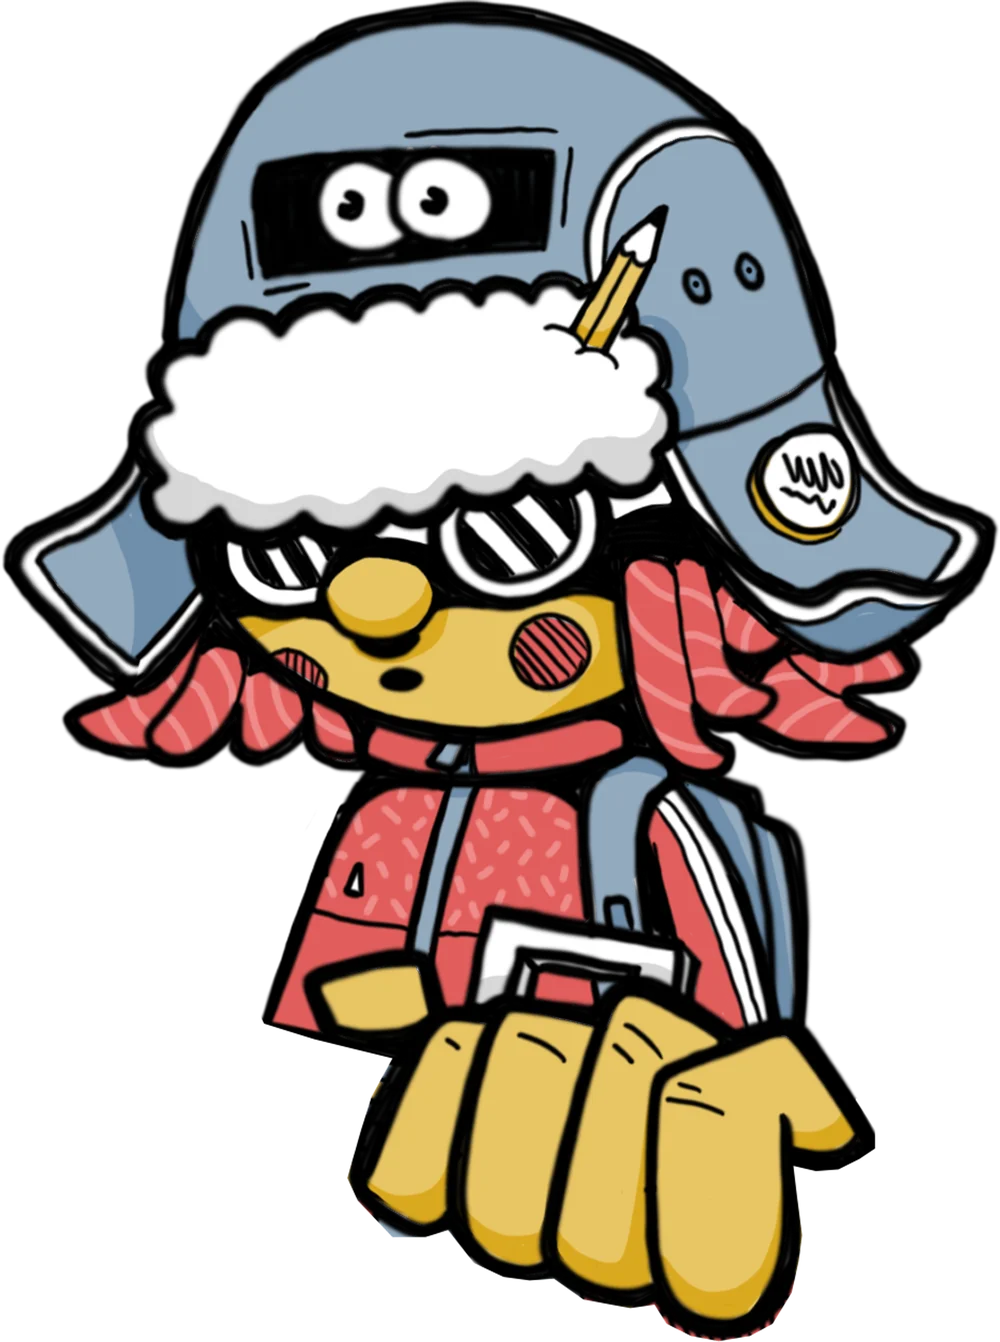
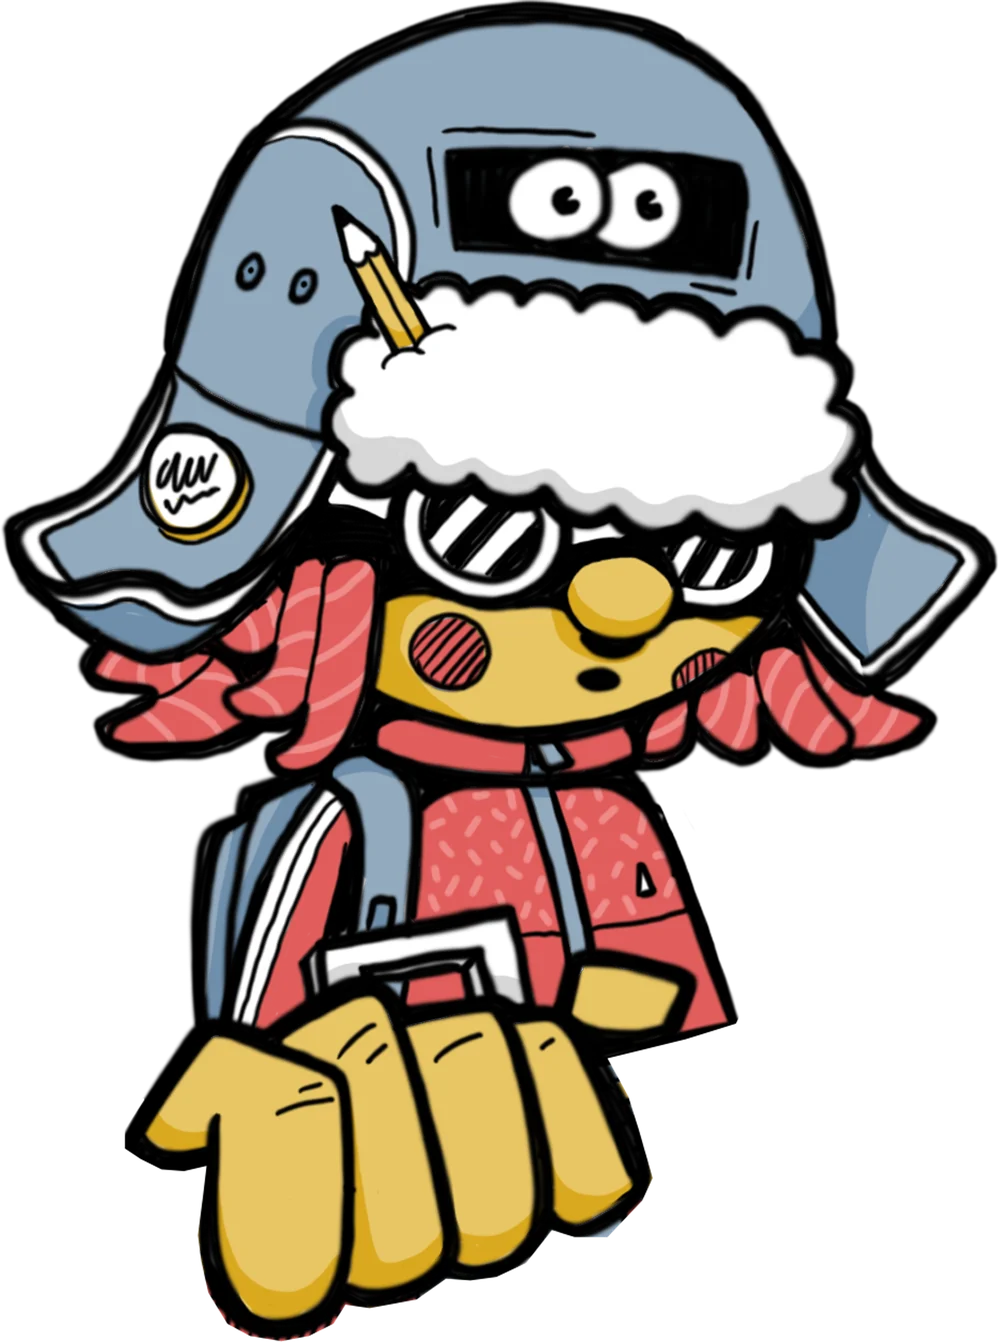
Hero: flip the character back to its original direction
Claude-Session: https://claude.ai/code/session_01WkPPr7APMxww9GCZuXhuvB

diff --git a/assets/css/styles.css b/assets/css/styles.css
@@ -261,7 +261,7 @@ a { color: inherit; }
   right: clamp(8px, 4vw, 64px);
   /* fist centre sits 15% up from the image bottom; line it up with the ribbon's middle */
   bottom: calc(42px - var(--w) * 1.342 * 0.15);
-  transform-origin: 86% 85%;
+  transform-origin: 14% 85%;
   filter: drop-shadow(6px 6px 0 rgba(38, 48, 61, 0.25));
   animation: rider-swing 4.5s ease-in-out infinite;
   pointer-events: none;
